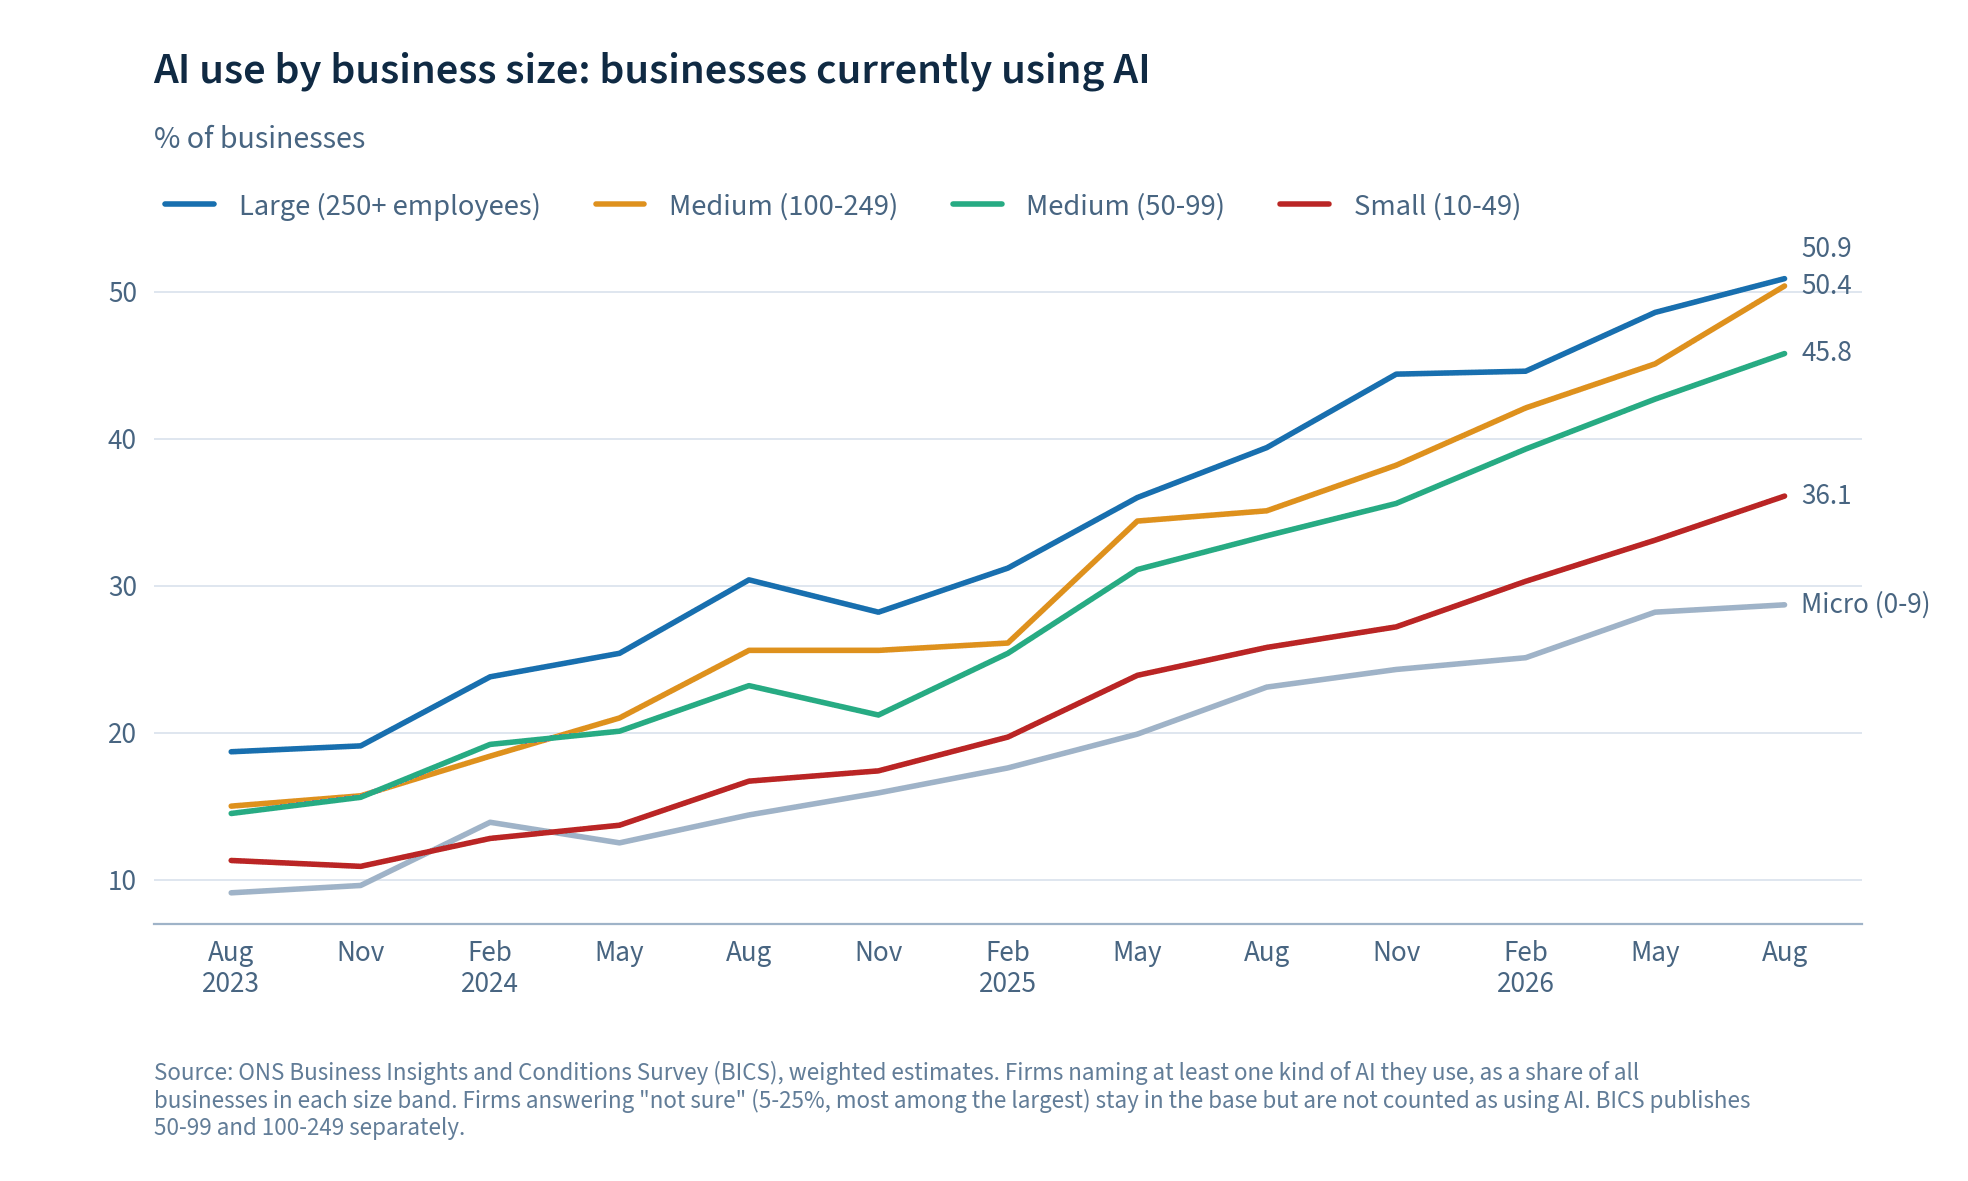
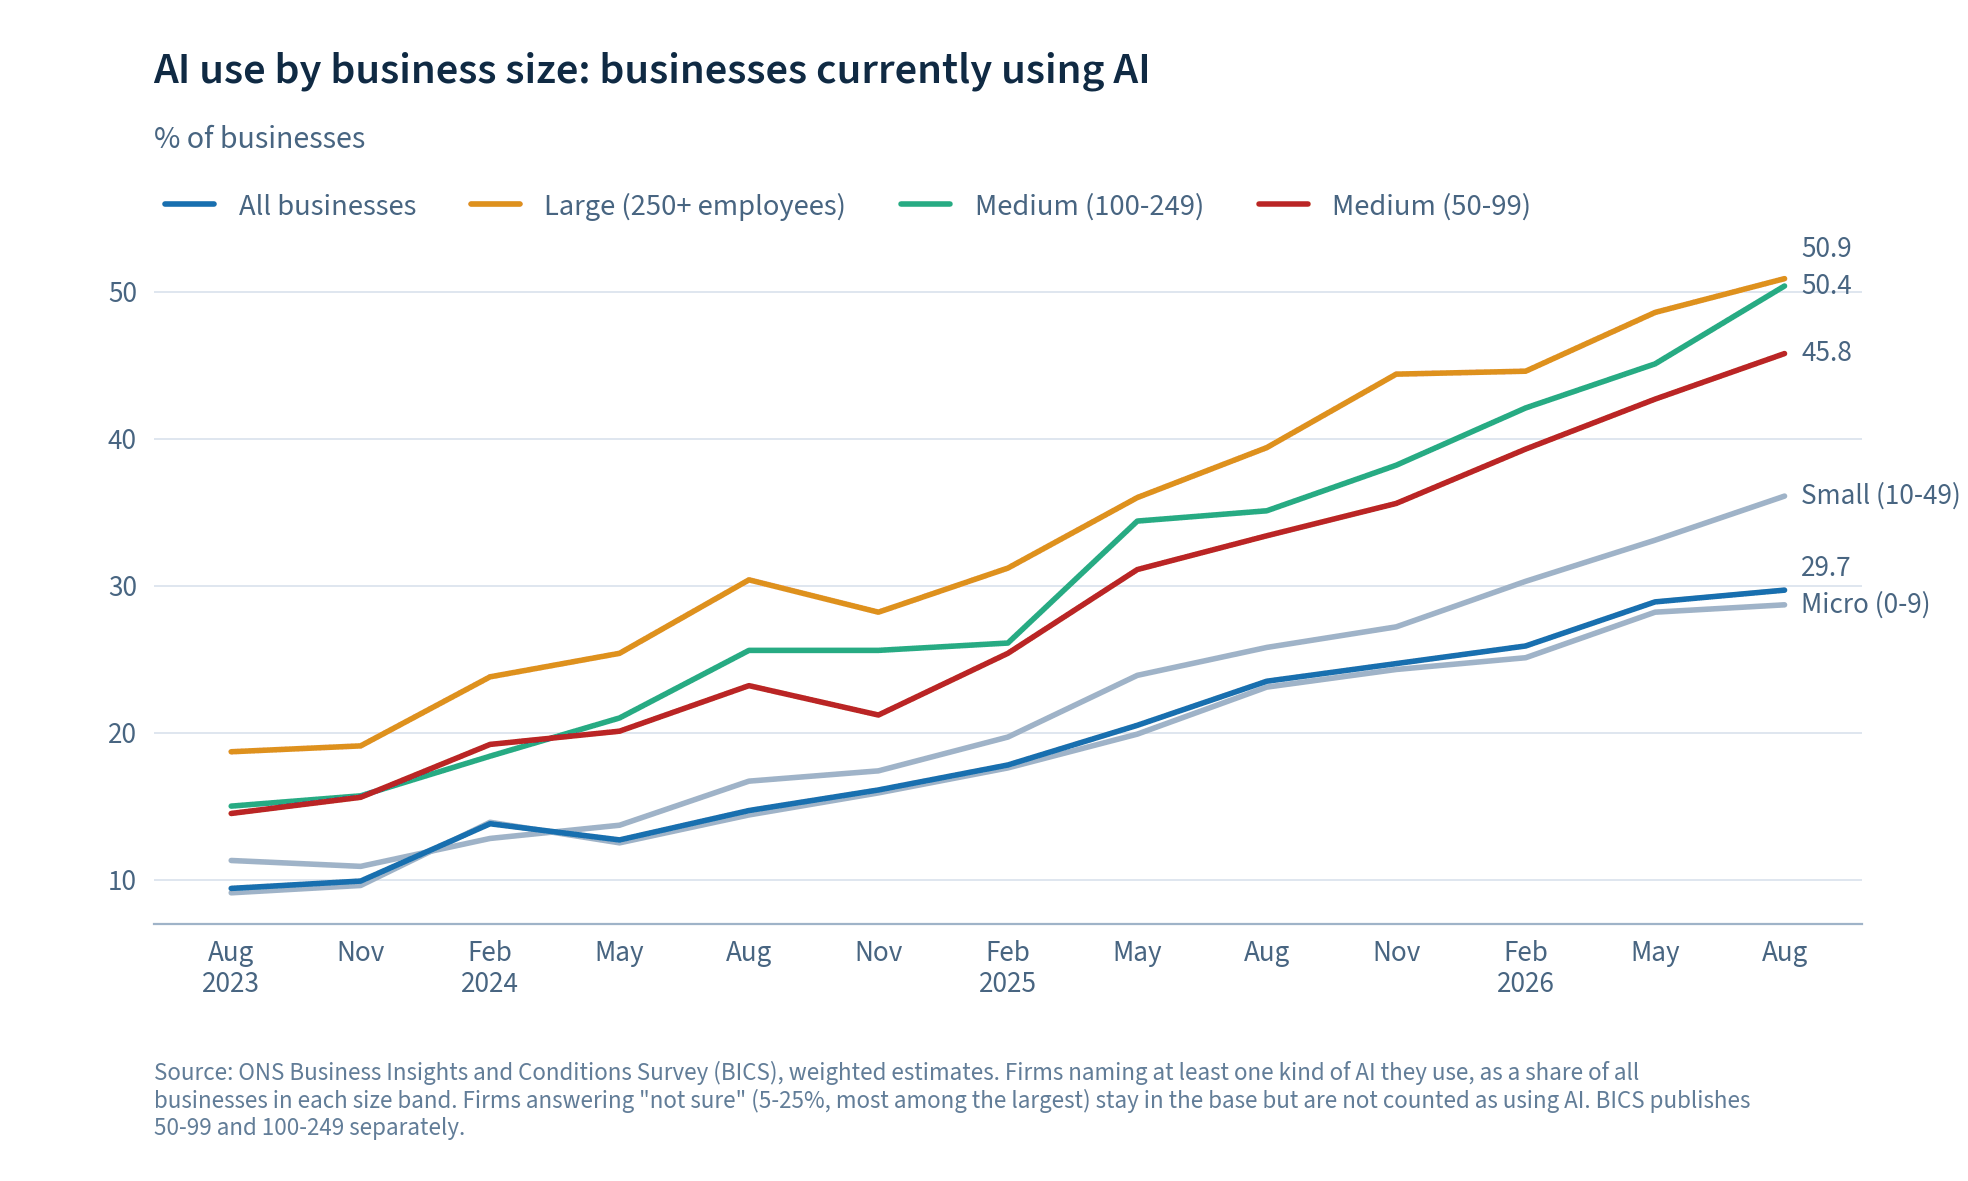
BICS size charts: add an all-businesses line; small and micro firms in grey

diff --git a/builders/bics/build.py b/builders/bics/build.py
@@ -255,7 +255,8 @@ def build_charts(cfg: dict, built: dict[str, dict]) -> list[str]:
                 continue
             key = f"{sid}__{slug(breakdown)}"
             columns[key] = {d["date"]: d.get(slug(breakdown)) for d in built[sid]["data"]}
-            lines.append({"key": key, "label": line.get("label", built[sid]["title"])})
+            lines.append({"key": key, "label": line.get("label", built[sid]["title"]),
+                          **{k: line[k] for k in ("color", "slot") if k in line}})
         dates = sorted({d for col in columns.values() for d in col if d})
         data = [{"date": d, **{k: col.get(d) for k, col in columns.items()}} for d in dates]
         if not data:
